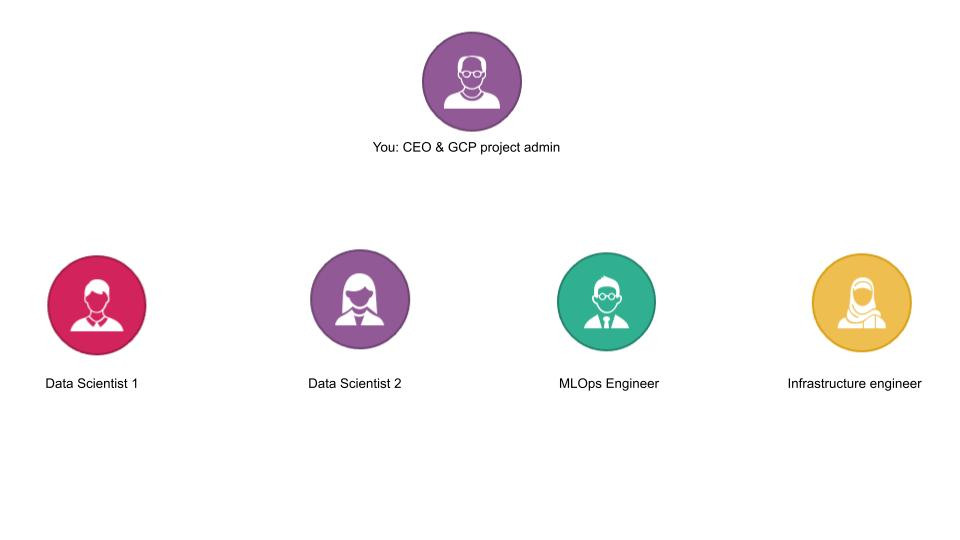
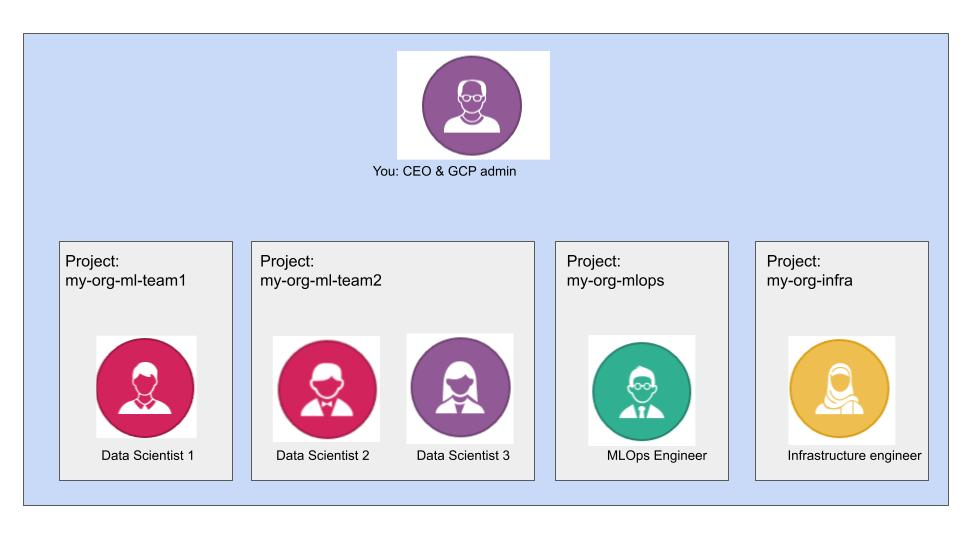
add README & tf files for org & user setup

diff --git a/3-user-setup/README.md b/3-user-setup/README.md
@@ -1,0 +1,24 @@
+# Steps
+
+1. Ideally, you would be running an Organisation, and have your employees log in to their accounts. In order to simulate this, create/use 5 more Google accounts.
+
+1. Run the following commands to set the GMAIL IDs of the users and make them available as variables to Terraform  
+**These should be different from your primary GMAIL ID**  
+Ref: https://developer.hashicorp.com/terraform/cli/config/environment-variables#tf_var_name
+```
+export TF_VAR_DS1_gmail="enter 1st gmail account here@gmail.com"
+export TF_VAR_DS2_gmail="enter 2nd gmail account here@gmail.com"
+export TF_VAR_DS3_gmail="enter 3rd gmail account here@gmail.com"
+export TF_VAR_MLOps_gmail="enter 4th gmail account here@gmail.com"
+export TF_VAR_Infra_gmail="enter 5th gmail account here@gmail.com"
+```
+
+1. Run the Terraform commands to create the users & assign them to their teams/projects (see file for more comments):
+```
+cd 3-user-setup
+terraform init
+terraform plan
+terraform apply -auto-approve
+```
+
+1. To verify these changes, log into Google Cloud Console using your **primary** email ID and navigate through the projects looking at the IAM section as well as Enabled APIs

diff --git a/2-org-setup/README.md b/2-org-setup/README.md
@@ -1,2 +1,30 @@
 # Org Structure
+The Organisation consists of:
+- The CEO & GCP project owner i.e. you
+- 2 Data Scientists
+- 1 MLOPs engineer
+- 1 Infrastructre engineer  
 ![Org Structure](./Org%20structure.jpg)
+
+# Steps
+1. Using the Google Cloud console, create a billing account. Note its ID and store it in an env variable:
+```
+export TF_VAR_ORG_BILLING_ID='enter your ID here'
+```
+
+1. Plan & then apply the file `main.tf` using Terraform (see file for more comments):
+```
+cd '2-org-setup'
+terraform init
+terraform plan
+terraform apply -auto-approve
+```
+
+1. Verify that the projects have been created
+```
+gcloud projects list
+```
+
+1. Using the [GCP console](https://console.cloud.google.com), enable the following APIs on the projects 'ds-ml-app1' & 'ds-ml-app2'  
+- Cloud Source Repositories API  
+Read: Why this should not be done through Terraform: [Ref 1](https://stackoverflow.com/a/72306829), [Ref 2](https://stackoverflow.com/a/72094901)  

diff --git a/1-terraform-setup/README.md b/1-terraform-setup/README.md
@@ -3,12 +3,32 @@
 # Steps
 1. Download the appropriate installer from [the official link](https://developer.hashicorp.com/terraform/downloads) & run it
 
+
 2. Add an entry to the Path env variable for terraform & verify that this command passes:
 ```
 terraform version
 ```
 
-3. Enter the folder `1-terraform-setup` and initialise terraform
+
+3. Create a GCS bucket to use as the backend for Terraform
+```
+gcloud storage buckets create gs://my-fake-org-on-gcp-bucket \
+    --project="my-fake-org-on-gcp"  \
+    --default-storage-class=STANDARD    \
+    --location=US-EAST1 \
+    --uniform-bucket-level-access   \
+    --public-access-prevention
+```
+Ref: https://cloud.google.com/storage/docs/creating-buckets#storage-create-bucket-cli
+
+
+4. List buckets
+```
+gcloud storage buckets list
+```
+
+
+5. Enter the folder `1-terraform-setup` and initialise terraform
 ```
 cd 1-terraform-setup
 terraform init

diff --git a/0-gcp-setup/README.md b/0-gcp-setup/README.md
@@ -61,3 +61,6 @@ gcloud projects create --set-as-default 'my-fake-org-on-gcp'
 ```
 gcloud projects list
 ```
+
+
+10. Enable billing on the project 'my-fake-org-on-gcp' using Google Console
